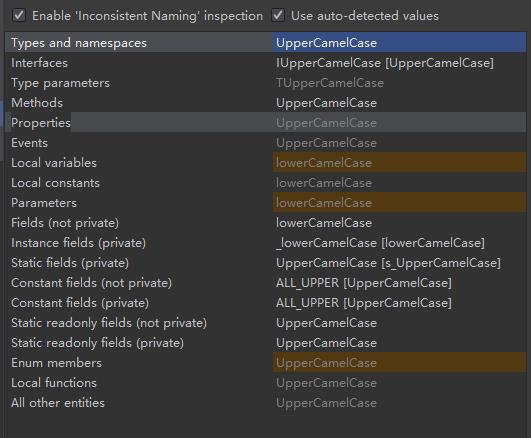
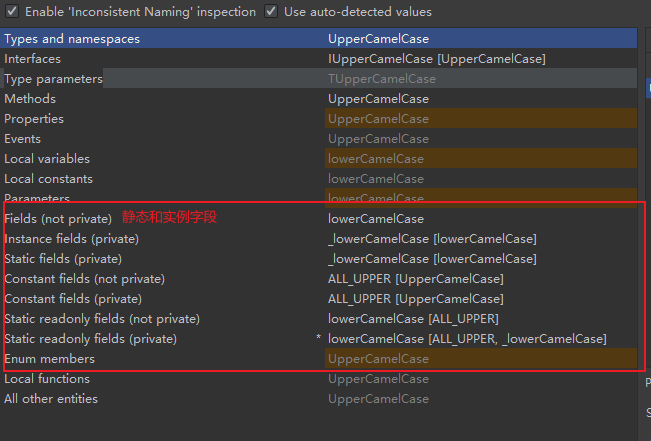
调整命名规范

diff --git a/csharp/Wjybxx.Commons.Concurrent/src/Concurrent/FutureAwaiter.cs b/csharp/Wjybxx.Commons.Concurrent/src/Concurrent/FutureAwaiter.cs
@@ -29,7 +29,7 @@ namespace Wjybxx.Commons.Concurrent;
 /// </summary>
 public readonly struct FutureAwaiter : ICriticalNotifyCompletion
 {
-    private static readonly Action<IFuture, object> Invoker = (_, state) => ((Action)state).Invoke();
+    private static readonly Action<IFuture, object> INVOKER = (_, state) => ((Action)state).Invoke();
 
     private readonly IFuture future;
 
@@ -66,11 +66,11 @@ public readonly struct FutureAwaiter : ICriticalNotifyCompletion
     /// </summary>
     /// <param name="continuation">回调任务</param>
     public void OnCompleted(Action continuation) {
-        future.OnCompleted(Invoker, continuation);
+        future.OnCompleted(INVOKER, continuation);
     }
 
     public void UnsafeOnCompleted(Action continuation) {
-        future.OnCompleted(Invoker, continuation);
+        future.OnCompleted(INVOKER, continuation);
     }
 }
 
@@ -80,7 +80,7 @@ public readonly struct FutureAwaiter : ICriticalNotifyCompletion
 /// <typeparam name="T"></typeparam>
 public readonly struct FutureAwaiter<T> : ICriticalNotifyCompletion
 {
-    private static readonly Action<IFuture<T>, object> Invoker = (_, state) => ((Action)state).Invoke();
+    private static readonly Action<IFuture<T>, object> INVOKER = (_, state) => ((Action)state).Invoke();
 
     private readonly IFuture<T> future;
 
@@ -114,10 +114,10 @@ public readonly struct FutureAwaiter<T> : ICriticalNotifyCompletion
     /// </summary>
     /// <param name="continuation">回调任务</param>
     public void OnCompleted(Action continuation) {
-        future.OnCompleted(Invoker, continuation);
+        future.OnCompleted(INVOKER, continuation);
     }
 
     public void UnsafeOnCompleted(Action continuation) {
-        future.OnCompleted(Invoker, continuation);
+        future.OnCompleted(INVOKER, continuation);
     }
 }

diff --git a/csharp/Wjybxx.Commons.Concurrent/src/Concurrent/StacklessCancellationException.cs b/csharp/Wjybxx.Commons.Concurrent/src/Concurrent/StacklessCancellationException.cs
@@ -27,10 +27,10 @@ namespace Wjybxx.Commons.Concurrent;
 /// </summary>
 public sealed class StacklessCancellationException : BetterCancellationException
 {
-    public static readonly StacklessCancellationException Inst1 = new StacklessCancellationException(1);
-    private static readonly StacklessCancellationException Inst2 = new StacklessCancellationException(2);
-    private static readonly StacklessCancellationException Inst3 = new StacklessCancellationException(3);
-    private static readonly StacklessCancellationException Inst4 = new StacklessCancellationException(4);
+    public static readonly StacklessCancellationException INST1 = new StacklessCancellationException(1);
+    private static readonly StacklessCancellationException INST2 = new StacklessCancellationException(2);
+    private static readonly StacklessCancellationException INST3 = new StacklessCancellationException(3);
+    private static readonly StacklessCancellationException INST4 = new StacklessCancellationException(4);
 
     public StacklessCancellationException(int code) : base(code) {
     }
@@ -49,10 +49,10 @@ public sealed class StacklessCancellationException : BetterCancellationException
     public static StacklessCancellationException InstOf(int code) {
         return code switch
         {
-            1 => Inst1,
-            2 => Inst2,
-            3 => Inst3,
-            4 => Inst4,
+            1 => INST1,
+            2 => INST2,
+            3 => INST3,
+            4 => INST4,
             _ => new StacklessCancellationException(code)
         };
     }

diff --git a/csharp/Wjybxx.Commons.Concurrent/src/Concurrent/CancelTokenSource.cs b/csharp/Wjybxx.Commons.Concurrent/src/Concurrent/CancelTokenSource.cs
@@ -32,7 +32,7 @@ public sealed class CancelTokenSource : ICancelTokenSource
     /// <summary>
     /// 默认的延迟调度器
     /// </summary>
-    private static readonly IScheduledExecutorService Delayer = new DefaultEventLoop(EventLoopBuilder.NewBuilder(new DefaultThreadFactory("Delayer")));
+    private static readonly IScheduledExecutorService _delayer = new DefaultEventLoop(EventLoopBuilder.NewBuilder(new DefaultThreadFactory("Delayer")));
 
     private volatile int code;
     private volatile Completion? stack;
@@ -71,11 +71,11 @@ public sealed class CancelTokenSource : ICancelTokenSource
     }
 
     public void CancelAfter(int cancelCode, long millisecondsDelay) {
-        CancelAfter(cancelCode, TimeSpan.FromMilliseconds(millisecondsDelay), Delayer);
+        CancelAfter(cancelCode, TimeSpan.FromMilliseconds(millisecondsDelay), _delayer);
     }
 
     public void CancelAfter(int cancelCode, TimeSpan timeSpan) {
-        CancelAfter(cancelCode, timeSpan, Delayer);
+        CancelAfter(cancelCode, timeSpan, _delayer);
     }
 
     public void CancelAfter(int cancelCode, TimeSpan timeSpan, IScheduledExecutorService delayer) {

diff --git a/csharp/Wjybxx.Commons.Concurrent/src/Concurrent/MiniContext.cs b/csharp/Wjybxx.Commons.Concurrent/src/Concurrent/MiniContext.cs
@@ -24,7 +24,7 @@ namespace Wjybxx.Commons.Concurrent;
 /// </summary>
 public sealed class MiniContext : IContext
 {
-    public static readonly MiniContext Sharable = new MiniContext(null, ICancelToken.NONE);
+    public static readonly MiniContext SHARABLE = new MiniContext(null, ICancelToken.NONE);
 
 #nullable disable
     /// <summary>
@@ -44,7 +44,7 @@ public sealed class MiniContext : IContext
     }
 
     public static MiniContext OfState(object? state) {
-        if (state == null) return Sharable;
+        if (state == null) return SHARABLE;
         return new MiniContext(state, null);
     }
 
@@ -53,7 +53,7 @@ public sealed class MiniContext : IContext
     }
 
     public static MiniContext OfCancelToken(ICancelToken? cancelToken) {
-        if (cancelToken == ICancelToken.NONE) return Sharable;
+        if (cancelToken == ICancelToken.NONE) return SHARABLE;
         return new MiniContext(null, cancelToken);
     }
 
@@ -61,6 +61,6 @@ public sealed class MiniContext : IContext
     public object? SharedProps => null;
 
     public IContext ToSharable() {
-        return Sharable;
+        return SHARABLE;
     }
 }

diff --git a/csharp/Wjybxx.Commons.Concurrent/src/Concurrent/FutureLogger.cs b/csharp/Wjybxx.Commons.Concurrent/src/Concurrent/FutureLogger.cs
@@ -28,19 +28,19 @@ public sealed class FutureLogger
     /// <summary>
     /// Future异常日志处理器
     /// </summary>
-    private static volatile ILogHandler? Handler;
+    private static volatile ILogHandler? _handler;
 
     /// <summary>
     /// 获取日志处理器
     /// </summary>
-    public static ILogHandler? GetHandler => Handler;
+    public static ILogHandler? GetHandler => _handler;
 
     /// <summary>
     /// 设置日志处理器
     /// </summary>
     /// <param name="handler"></param>
     public static void SetHandler(ILogHandler? handler) {
-        Handler = handler;
+        _handler = handler;
     }
 
     /// <summary>
@@ -51,8 +51,8 @@ public sealed class FutureLogger
     public static void LogCause(Exception ex, string? message = null) {
         if (ex == null) throw new ArgumentNullException(nameof(ex));
         message = message ?? "Future caught an exception";
-        if (Handler != null) {
-            Handler.LogCause(ex, message);
+        if (_handler != null) {
+            _handler.LogCause(ex, message);
         } else {
             // TODO 打印日志
         }

diff --git a/csharp/Wjybxx.Commons.Concurrent/src/Sequential/UniScheduledPromiseTask.cs b/csharp/Wjybxx.Commons.Concurrent/src/Sequential/UniScheduledPromiseTask.cs
@@ -270,7 +270,7 @@ public class UniScheduledPromiseTask<T> : PromiseTask<T>, IScheduledFutureTask<T
             if (HasTimeout) {
                 timeoutContext.BeforeCall(tickTime, nextTriggerTime, scheduleType == ScheduledTaskBuilder.SCHEDULE_FIXED_RATE);
                 if (TaskOption.IsEnabled(options, TaskOption.TIMEOUT_BEFORE_RUN) && timeoutContext.IsTimeout()) {
-                    promise.TrySetException(StacklessTimeoutException.Inst);
+                    promise.TrySetException(StacklessTimeoutException.INST);
                     Clear();
                     return false;
                 }
@@ -287,7 +287,7 @@ public class UniScheduledPromiseTask<T> : PromiseTask<T>, IScheduledFutureTask<T
             }
             // 未被取消的情况下检测超时
             if (HasTimeout && timeoutContext.IsTimeout()) {
-                promise.TrySetException(StacklessTimeoutException.Inst);
+                promise.TrySetException(StacklessTimeoutException.INST);
                 Clear();
                 return false;
             }

diff --git a/csharp/Wjybxx.Commons.Concurrent/src/Concurrent/ScheduledPromiseTask.cs b/csharp/Wjybxx.Commons.Concurrent/src/Concurrent/ScheduledPromiseTask.cs
@@ -264,7 +264,7 @@ public class ScheduledPromiseTask<T> : PromiseTask<T>, IScheduledFutureTask<T>,
             if (HasTimeout) {
                 timeoutContext.BeforeCall(tickTime, nextTriggerTime, scheduleType == ScheduledTaskBuilder.SCHEDULE_FIXED_RATE);
                 if (TaskOption.IsEnabled(options, TaskOption.TIMEOUT_BEFORE_RUN) && timeoutContext.IsTimeout()) {
-                    promise.TrySetException(StacklessTimeoutException.Inst);
+                    promise.TrySetException(StacklessTimeoutException.INST);
                     Clear();
                     return false;
                 }
@@ -281,7 +281,7 @@ public class ScheduledPromiseTask<T> : PromiseTask<T>, IScheduledFutureTask<T>,
             }
             // 未被取消的情况下检测超时
             if (HasTimeout && timeoutContext.IsTimeout()) {
-                promise.TrySetException(StacklessTimeoutException.Inst);
+                promise.TrySetException(StacklessTimeoutException.INST);
                 Clear();
                 return false;
             }

diff --git a/csharp/Wjybxx.Commons.Concurrent/src/Concurrent/RejectedExecutionHandlers.cs b/csharp/Wjybxx.Commons.Concurrent/src/Concurrent/RejectedExecutionHandlers.cs
@@ -26,17 +26,17 @@ public static class RejectedExecutionHandlers
     /// <summary>
     /// 抛出拒绝异常
     /// </summary>
-    public static readonly RejectedExecutionHandler Abort = new AbortHandler();
+    public static readonly RejectedExecutionHandler ABORT = new AbortHandler();
 
     /// <summary>
     /// 丢弃被拒绝的任务
     /// </summary>
-    public static readonly RejectedExecutionHandler Discard = new DiscardHandler();
+    public static readonly RejectedExecutionHandler DISCARD = new DiscardHandler();
 
     /// <summary>
     /// 在调用者线程执行任务（同步立即执行）
     /// </summary>
-    public static readonly RejectedExecutionHandler CallerRuns = new CallerRun();
+    public static readonly RejectedExecutionHandler CALLER_RUNS = new CallerRun();
 
     private class AbortHandler : RejectedExecutionHandler
     {

diff --git a/csharp/Wjybxx.Commons.Concurrent/src/Concurrent/EventLoopBuilder.cs b/csharp/Wjybxx.Commons.Concurrent/src/Concurrent/EventLoopBuilder.cs
@@ -28,10 +28,10 @@ namespace Wjybxx.Commons.Concurrent;
 public class EventLoopBuilder
 {
     private IEventLoopGroup? _parent;
-    private RejectedExecutionHandler _rejectedExecutionHandler = RejectedExecutionHandlers.Abort;
+    private RejectedExecutionHandler _rejectedExecutionHandler = RejectedExecutionHandlers.ABORT;
     private ThreadFactory? _threadFactory;
 
-    private IEventLoopAgent<IAgentEvent>? _agent = EmptyAgent<IAgentEvent>.Inst;
+    private IEventLoopAgent<IAgentEvent>? _agent = EmptyAgent<IAgentEvent>.INST;
     private IEventLoopModule? _mainModule;
     private int _waitTaskSpinTries = 10;
     private int _batchSize = 1024;

diff --git a/csharp/Wjybxx.Commons.Concurrent/src/Concurrent/DefaultEventLoop.cs b/csharp/Wjybxx.Commons.Concurrent/src/Concurrent/DefaultEventLoop.cs
@@ -97,8 +97,8 @@ public class DefaultEventLoop : AbstractScheduledEventLoop
 
         _waitTaskSpinTries = builder.WaitTaskSpinTries;
         _taskBatchSize = Math.Clamp(builder.BatchSize, MIN_BATCH_SIZE, MAX_BATCH_SIZE);
-        _rejectedExecutionHandler = builder.RejectedExecutionHandler ?? RejectedExecutionHandlers.Abort;
-        _agent = builder.Agent ?? EmptyAgent<IAgentEvent>.Inst;
+        _rejectedExecutionHandler = builder.RejectedExecutionHandler ?? RejectedExecutionHandlers.ABORT;
+        _agent = builder.Agent ?? EmptyAgent<IAgentEvent>.INST;
         _mainModule = builder.MainModule;
     }
 

diff --git a/csharp/Wjybxx.Commons.Concurrent/src/Concurrent/ICancelToken.cs b/csharp/Wjybxx.Commons.Concurrent/src/Concurrent/ICancelToken.cs
@@ -30,7 +30,7 @@ public interface ICancelToken
     /// <summary>
     /// 表示不可取消的令牌
     /// </summary>
-    static readonly ICancelToken NONE = UncancellableToken.Inst;
+    static readonly ICancelToken NONE = UncancellableToken.INST;
 
     /**
      * 返回一个只读的<see cref="ICancelToken"/>试图，返回的实例会在当前Token被取消时取消。

diff --git a/csharp/Wjybxx.Commons.Concurrent/src/Concurrent/StacklessTimeoutException.cs b/csharp/Wjybxx.Commons.Concurrent/src/Concurrent/StacklessTimeoutException.cs
@@ -27,7 +27,7 @@ namespace Wjybxx.Commons.Concurrent;
 /// </summary>
 public class StacklessTimeoutException : TimeoutException
 {
-    public static readonly StacklessTimeoutException Inst = new StacklessTimeoutException();
+    public static readonly StacklessTimeoutException INST = new StacklessTimeoutException();
 
     public StacklessTimeoutException() {
     }
